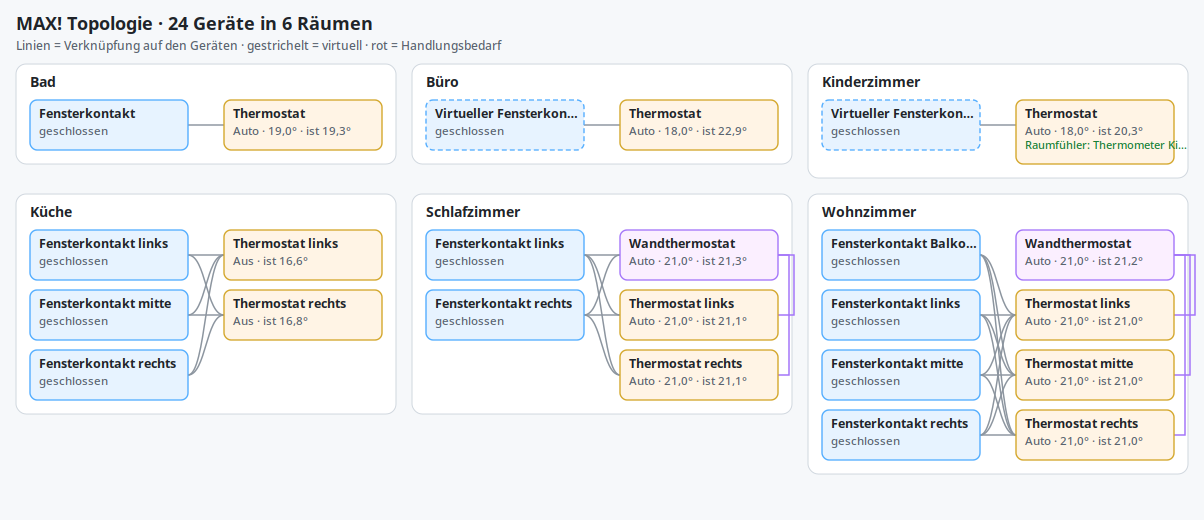
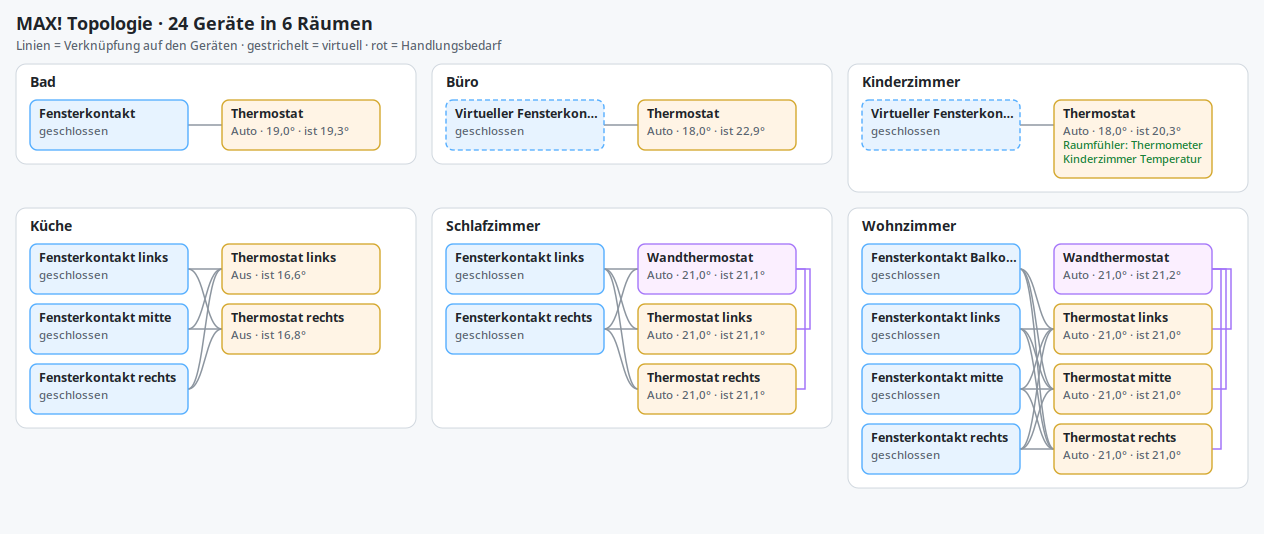
Topology: wrap notes, keep wall-thermostat brackets inside the room box

Changed region(s): [[0.0, 0.3692, 1.0, 0.8923], [0.0, 0.0308, 0.6453, 0.3077], [0.6761, 0.1231, 0.9834, 0.3385]]

diff --git a/custom_components/cul_max/topology.py b/custom_components/cul_max/topology.py
@@ -4,7 +4,7 @@ from __future__ import annotations
 from dataclasses import dataclass, field
 from html import escape
 
-ROOM_WIDTH = 380
+ROOM_WIDTH = 400
 ROOM_GAP = 16
 COLUMNS = 3
 NODE_WIDTH = 158
@@ -12,7 +12,11 @@ NODE_HEIGHT = 50
 NODE_GAP = 10
 ROOM_HEADER = 36
 LEFT_X = 14
-RIGHT_X = ROOM_WIDTH - NODE_WIDTH - 14
+BRACKET_SPACE = 36  # room for wall-thermostat brackets right of the devices
+RIGHT_X = ROOM_WIDTH - NODE_WIDTH - BRACKET_SPACE
+NOTE_CHARS = 25
+NOTE_MAX_LINES = 3
+LINE_HEIGHT = 14
 
 FONT = "-apple-system, 'Segoe UI', Roboto, Helvetica, Arial, sans-serif"
 COLORS = {
@@ -64,6 +68,41 @@ def _short(text: str, limit: int) -> str:
     return text if len(text) <= limit else text[: limit - 1] + "…"
 
 
+def _wrap(text: str, width: int = NOTE_CHARS, max_lines: int = NOTE_MAX_LINES) -> list[str]:
+    """Word-wrap a note so it fits into a device box."""
+    lines: list[str] = []
+    current = ""
+    for word in str(text).split():
+        while len(word) > width:  # very long word: hard split
+            if current:
+                lines.append(current)
+                current = ""
+            lines.append(word[:width])
+            word = word[width:]
+        candidate = f"{current} {word}".strip()
+        if len(candidate) <= width:
+            current = candidate
+        else:
+            lines.append(current)
+            current = word
+    if current:
+        lines.append(current)
+    if len(lines) > max_lines:
+        lines = lines[:max_lines]
+        lines[-1] = _short(lines[-1] + " …", width)
+    return lines or [""]
+
+
+def _note_lines(node: TopologyNode) -> list[tuple[str, str]]:
+    """All wrapped note/problem lines of a node as (text, colour)."""
+    out: list[tuple[str, str]] = []
+    for note in node.notes:
+        out.extend((line, COLORS["ok"]) for line in _wrap(note))
+    for problem in node.problems:
+        out.extend((line, COLORS["warn"]) for line in _wrap(problem))
+    return out
+
+
 def _strip_room(name: str, room: str) -> str:
     """'Thermostat Kinderzimmer' in room 'Kinderzimmer' → 'Thermostat'."""
     if room and room.lower() in name.lower() and name.lower() != room.lower():
@@ -105,9 +144,9 @@ def render_topology_svg(nodes: list[TopologyNode], edges: list[TopologyEdge], *,
         )
         for column, x in ((left, LEFT_X), (right, RIGHT_X)):
             for idx, node in enumerate(column):
-                extra = 14 * (len(node.problems) + len(node.notes))
+                extra = LINE_HEIGHT * len(_note_lines(node))
                 y = ROOM_HEADER + sum(
-                    NODE_HEIGHT + NODE_GAP + 14 * (len(n.problems) + len(n.notes))
+                    NODE_HEIGHT + NODE_GAP + LINE_HEIGHT * len(_note_lines(n))
                     for n in column[:idx]
                 )
                 layout[node.key] = (x, y)
@@ -150,7 +189,16 @@ def render_topology_svg(nodes: list[TopologyNode], edges: list[TopologyEdge], *,
         room_edges = [
             e for e in local_edges if by_key[e.a].room == room
         ]
-        bracket = 0
+        same_column = [
+            e for e in room_edges
+            if (by_key[e.a].kind == KIND_CONTACT) == (by_key[e.b].kind == KIND_CONTACT)
+        ]
+        right_brackets = sum(1 for e in same_column if by_key[e.a].kind != KIND_CONTACT)
+        left_brackets = len(same_column) - right_brackets
+        # keep every bracket inside the room box
+        right_step = min(5.0, (BRACKET_SPACE - 10) / max(right_brackets, 1))
+        left_step = min(5.0, (LEFT_X - 4) / max(left_brackets, 1))
+        right_n = left_n = 0
         for edge in room_edges:
             a, b = by_key[edge.a], by_key[edge.b]
             ax, ay = layout[a.key]
@@ -170,13 +218,13 @@ def render_topology_svg(nodes: list[TopologyNode], edges: list[TopologyEdge], *,
                 )
             else:
                 # both in the same column: bracket on the outer side
-                bracket += 1
-                outer = 6 + 5 * bracket
                 if a.kind == KIND_CONTACT:
-                    x = rx + LEFT_X - outer
+                    left_n += 1
+                    x = rx + LEFT_X - 2 - left_step * left_n
                     edge_x = rx + LEFT_X
                 else:
-                    x = rx + RIGHT_X + NODE_WIDTH + outer
+                    right_n += 1
+                    x = rx + RIGHT_X + NODE_WIDTH + 4 + right_step * right_n
                     edge_x = rx + RIGHT_X + NODE_WIDTH
                 out.append(
                     f'<path d="M{edge_x},{ay_mid} H{x} V{by_mid} H{edge_x}" fill="none" '
@@ -208,18 +256,12 @@ def render_topology_svg(nodes: list[TopologyNode], edges: list[TopologyEdge], *,
                     f'<text x="{x + 9}" y="{y0 + 35}" font-size="11.5" fill="{COLORS["muted"]}">'
                     f"{escape(_short(node.status, 26))}</text>"
                 )
-            line_y = y0 + 35 + 14
-            for note in node.notes:
+            line_y = y0 + 35 + LINE_HEIGHT
+            for text, colour in _note_lines(node):
                 out.append(
-                    f'<text x="{x + 9}" y="{line_y}" font-size="11" fill="{COLORS["ok"]}">'
-                    f"{escape(_short(note, 27))}</text>"
+                    f'<text x="{x + 9}" y="{line_y}" font-size="11" fill="{colour}">'
+                    f"{escape(text)}</text>"
                 )
-                line_y += 14
-            for problem in node.problems:
-                out.append(
-                    f'<text x="{x + 9}" y="{line_y}" font-size="11" fill="{COLORS["warn"]}">'
-                    f"{escape(_short(problem, 27))}</text>"
-                )
-                line_y += 14
+                line_y += LINE_HEIGHT
     out.append("</svg>")
     return "\n".join(out)
